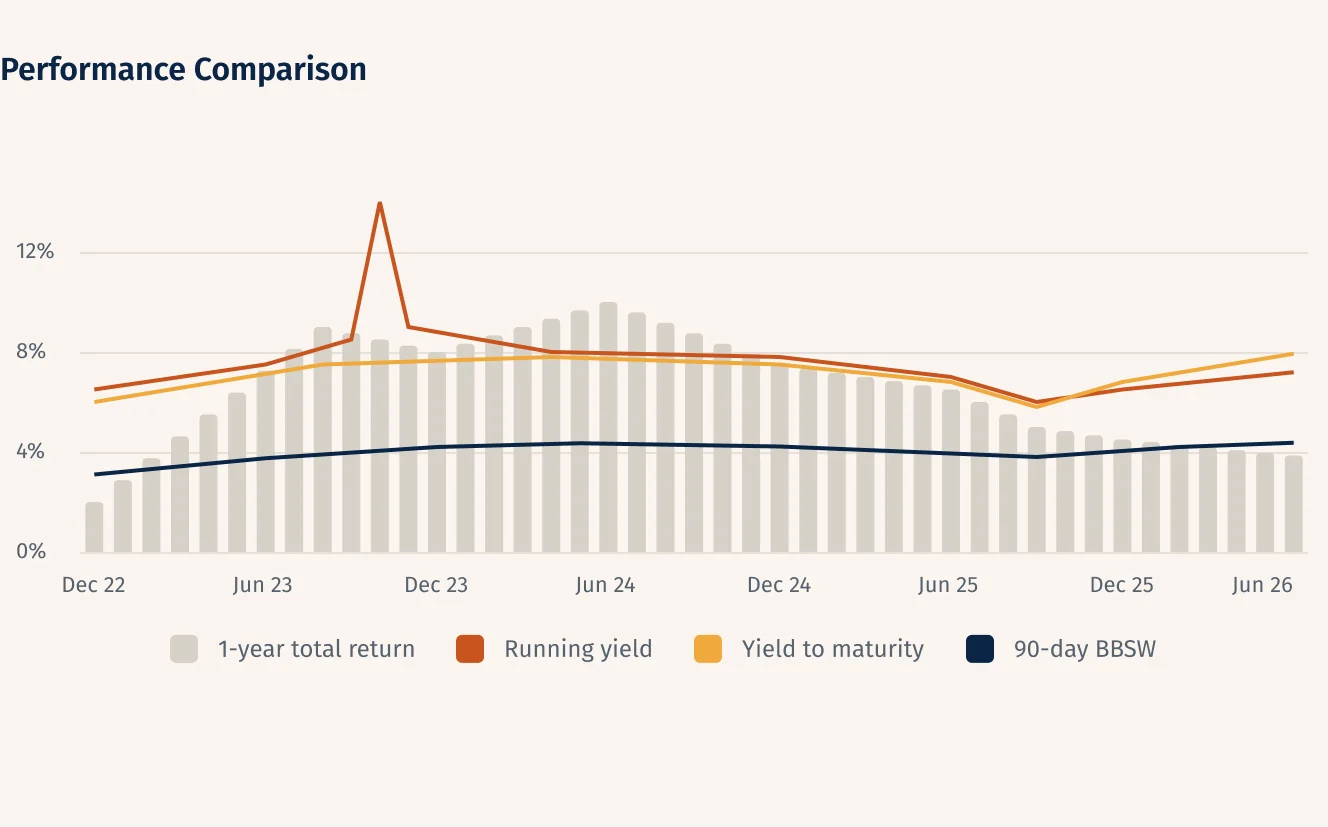
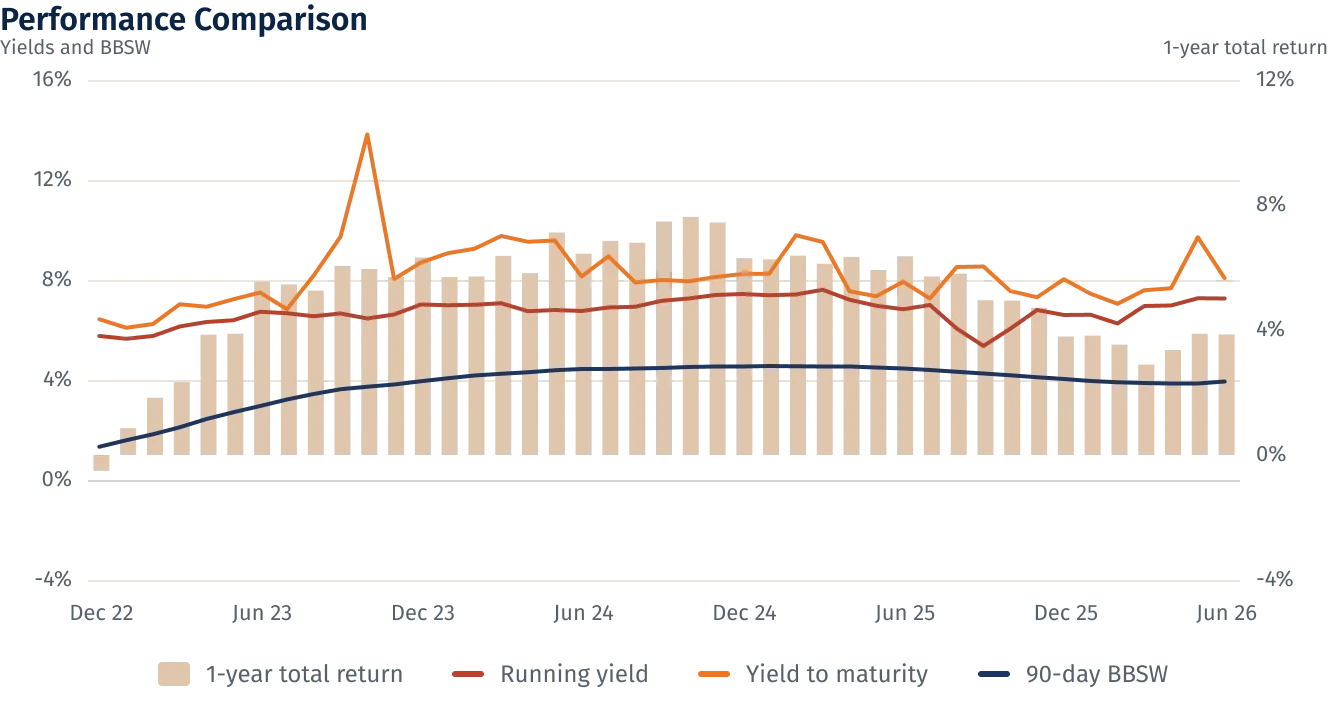
Add files via upload

diff --git a/scripts/figma-chart-build.js b/scripts/figma-chart-build.js
@@ -1,0 +1,42 @@
+// Figma use_figma script that built the Performance chart v2 frames (23 Sep 2026). Replace the D = {...} series (months, bars from workbook column AC, RY/YTM/BBSW) and the axis constants, run via the Figma MCP, export at 2x. Kept here as the regeneration recipe for docs/MONTHLY.md Step 2.
+const D = {"months":["Dec 2022","Jan 2023","Feb 2023","Mar 2023","Apr 2023","May 2023","Jun 2023","Jul 2023","Aug 2023","Sep 2023","Oct 2023","Nov 2023","Dec 2023","Jan 2024","Feb 2024","Mar 2024","Apr 2024","May 2024","Jun 2024","Jul 2024","Aug 2024","Sep 2024","Oct 2024","Nov 2024","Dec 2024","Jan 2025","Feb 2025","Mar 2025","Apr 2025","May 2025","Jun 2025","Jul 2025","Aug 2025","Sep 2025","Oct 2025","Nov 2025","Dec 2025","Jan 2026","Feb 2026","Mar 2026","Apr 2026","May 2026","Jun 2026"],"bars":[-0.51,0.86,1.83,2.33,3.85,3.88,5.55,5.46,5.26,6.05,5.95,5.69,6.32,5.69,5.71,6.37,5.82,7.12,6.44,6.85,6.79,7.47,7.62,7.44,6.3,6.26,6.38,6.12,6.34,5.92,6.36,5.71,5.8,4.95,4.94,4.71,3.79,3.82,3.53,2.89,3.36,3.88,3.86],"RY":[5.68,5.57,5.68,6.06,6.24,6.31,6.65,6.59,6.47,6.58,6.38,6.54,6.94,6.91,6.93,6.99,6.67,6.72,6.68,6.82,6.85,7.09,7.18,7.32,7.36,7.31,7.34,7.53,7.13,6.89,6.75,6.92,5.98,5.28,5.97,6.72,6.52,6.53,6.18,6.88,6.9,7.19,7.18],"YTM":[6.35,6.01,6.16,6.95,6.85,7.15,7.42,6.75,8.1,9.65,13.74,7.96,8.62,8.99,9.17,9.68,9.45,9.5,8.06,8.87,7.82,7.92,7.87,8.04,8.16,8.17,9.71,9.44,7.47,7.27,7.85,7.18,8.44,8.46,7.48,7.23,7.95,7.37,6.97,7.51,7.59,9.63,7.99],"BBSW":[1.25,1.51,1.75,2.03,2.36,2.63,2.88,3.14,3.36,3.55,3.65,3.74,3.87,3.99,4.1,4.17,4.23,4.31,4.36,4.36,4.38,4.4,4.44,4.46,4.46,4.48,4.47,4.46,4.46,4.42,4.38,4.32,4.25,4.18,4.11,4.03,3.96,3.88,3.83,3.8,3.78,3.78,3.86]};
+await figma.setCurrentPageAsync(await figma.getNodeByIdAsync('74:3'));
+const SB = {family:'Fira Sans',style:'SemiBold'}, RG = {family:'Fira Sans',style:'Regular'}, MD={family:'Fira Sans',style:'Medium'};
+await figma.loadFontAsync(SB); await figma.loadFontAsync(RG); await figma.loadFontAsync(MD);
+const hex = h => ({r:parseInt(h.slice(1,3),16)/255,g:parseInt(h.slice(3,5),16)/255,b:parseInt(h.slice(5,7),16)/255});
+const C = {navyMid:'#0B2545', body:'#57626D', line:'#EBE5DE', bar:'#DFC6AD', ry:'#B6432F', ytm:'#EC7826', bbsw:'#1E355E', axis:'#D2D5D9'};
+const solid = h => [{type:'SOLID',color:hex(h)}];
+// placement: right of everything on the page
+let maxX = -Infinity, pifY = 0; for (const c of figma.currentPage.children){ maxX=Math.max(maxX,c.x+c.width); if (c.name.includes('Preferred') || c.name.includes('PIF')) pifY = c.y; }
+const W=664, H=440;
+const root = figma.createFrame(); root.name='Performance chart v2 · PIF (Jun 2026)'; root.resize(W,H); root.fills=[]; root.x=Math.round(maxX+200); root.y=Math.round(pifY||0); figma.currentPage.appendChild(root);
+const txt = (chars, font, size, color, x, y, w, align) => { const t=figma.createText(); t.fontName=font; t.characters=chars; t.fontSize=size; t.fills=solid(color); t.textAutoResize='WIDTH_AND_HEIGHT'; root.appendChild(t); if (w!==undefined){ t.textAutoResize='HEIGHT'; t.resize(w, t.height); t.textAlignHorizontal=align||'LEFT'; } t.x=x; t.y=y; return t; };
+txt('Performance Comparison', SB, 16, C.navyMid, 0, 0);
+// plot geometry
+const L=44, R=44, top=40, plotH=250, plotW=W-L-R, bottom=top+plotH;
+const yL = v => top + (16 - v)/20*plotH;   // left axis: yields, 16 .. -4
+const yR = v => top + (12 - v)/16*plotH;   // right axis: 1-year return, 12 .. -4
+// gridlines + left labels every 4%, right labels at their own values
+const gridG = figma.createFrame(); gridG.name='Grid'; gridG.fills=[]; gridG.resize(W,H); gridG.x=0; gridG.y=0; root.appendChild(gridG); gridG.clipsContent=false;
+for (const v of [16,12,8,4,0,-4]) { const l=figma.createRectangle(); l.resize(plotW,1); l.x=L; l.y=Math.round(yL(v)); l.fills=solid(v===0?C.axis:C.line); gridG.appendChild(l); const t=txt(`${v}%`,RG,11,C.body,0,yL(v)-7,L-8,'RIGHT'); }
+for (const v of [12,8,4,0,-4]) { txt(`${v}%`,RG,11,C.body,W-R+8,yR(v)-7,R-8,'LEFT'); }
+// bars
+const n=D.months.length, slot=plotW/n, bw=Math.max(6,Math.floor(slot*0.6));
+const barsG = figma.createFrame(); barsG.name='Bars · 1-year total return'; barsG.fills=[]; barsG.resize(W,H); barsG.x=0; barsG.y=0; barsG.clipsContent=false; root.appendChild(barsG);
+D.bars.forEach((v,i)=>{ const r=figma.createRectangle(); const y0=yR(0), y1=yR(v); r.resize(bw, Math.max(1,Math.abs(y1-y0))); r.x=L+i*slot+(slot-bw)/2; r.y=Math.min(y0,y1); r.fills=solid(C.bar); r.name=`${D.months[i]} ${v}%`; barsG.appendChild(r); });
+// lines
+const cx = i => L + i*slot + slot/2;
+const line = (name, vals, color) => { const v=figma.createVector(); v.name=name; root.appendChild(v); let d=''; vals.forEach((val,i)=>{ if(val===null) return; d += (d?' L ':'M ') + cx(i).toFixed(2)+' '+yL(val).toFixed(2); }); v.vectorPaths=[{windingRule:'NONE',data:d}]; v.strokes=solid(color); v.strokeWeight=2; v.strokeCap='ROUND'; v.strokeJoin='ROUND'; v.fills=[]; v.x=0; v.y=0; return v.id; };
+const ids=[line('Running yield',D.RY,C.ry), line('Yield to maturity',D.YTM,C.ytm), line('90-day BBSW',D.BBSW,C.bbsw)];
+// x labels every 6 months
+D.months.forEach((m,i)=>{ if(i%6===0){ const [mon,yr]=m.split(' '); txt(`${mon} ${yr.slice(2)}`,RG,11,C.body,cx(i)-24,bottom+10,48,'CENTER'); } });
+// axis captions
+txt('Yields and BBSW',RG,10,C.body,0,top-22); txt('1-year total return',RG,10,C.body,W-90,top-22,90,'RIGHT');
+// legend
+const leg = figma.createAutoLayout('HORIZONTAL',{name:'Legend',itemSpacing:24}); leg.fills=[]; root.appendChild(leg);
+const item=(label,color,isBar)=>{ const it=figma.createAutoLayout('HORIZONTAL',{itemSpacing:8}); it.fills=[]; it.counterAxisAlignItems='CENTER'; const sw=figma.createRectangle(); sw.resize(isBar?16:16, isBar?12:3); sw.fills=solid(color); sw.cornerRadius=isBar?2:1.5; it.appendChild(sw); const t=figma.createText(); t.fontName=RG; t.characters=label; t.fontSize=12; t.fills=solid(C.body); it.appendChild(t); leg.appendChild(it); };
+item('1-year total return',C.bar,true); item('Running yield',C.ry); item('Yield to maturity',C.ytm); item('90-day BBSW',C.bbsw);
+leg.x=Math.round((W-leg.width)/2); leg.y=bottom+40;
+const note=txt('Source: Arculus. Bars from the fund performance workbook (1-year total return, right axis). Yield lines traced from the June 2026 report chart pending Renny\'s series (left axis).',RG,9,C.body,0,bottom+72,W);
+note.name='_note (delete before export)';
+return {rootId:root.id, x:root.x, y:root.y, lineIds:ids, bars:D.bars.length, screenshot: await root.screenshot({scale:1})};

diff --git a/BUILD_TASKS.md b/BUILD_TASKS.md
@@ -76,7 +76,7 @@ T7 is the checkpoint: if the build is running well past estimate by then, revisi
 ## 6b · Pre-launch build tasks from Jim's 22 Sep list
 
 - [x] T29 Fund performance card is now the report's three-row table (Total return · Cash distribution · Growth × seven periods; `performance.table` in the fund JSON, `PerformanceTable` component, report footnote as `tableNote` [Unverified] wording); card padding evened out; AFI note gains its distribution sentence; "latest monthly" labels realigned to the 30 June data (documents.json June/May/April placeholders until C9) — 22 Sep
-- [ ] T30 Performance chart fidelity: replace the simplified Figma redraw with a code-drawn SVG from a per-fund monthly series file (bars = 1-year total return from the workbook column AC, lines = running yield, yield to maturity, 90-day BBSW) so the chart carries the monthly x-axis, dual axes and every month, and the monthly update becomes "append a row". **Needs from Renny: the sheet behind his Performance Comparison chart (monthly RY, YTM and BBSW series) — those three are not in the performance workbooks.**
+- [~] T30 Performance charts rebuilt in Figma at Renny's fidelity (23 Sep; `Performance chart v2` frames, bars exact from the workbooks, yield lines [Unverified] traced from the June report charts until Renny's series arrives) and exported to the site. Original plan, still the long-term option: replace the Figma redraw with a code-drawn SVG from a per-fund monthly series file (bars = 1-year total return from the workbook column AC, lines = running yield, yield to maturity, 90-day BBSW) so the chart carries the monthly x-axis, dual axes and every month, and the monthly update becomes "append a row". **Needs from Renny: the sheet behind his Performance Comparison chart (monthly RY, YTM and BBSW series) — those three are not in the performance workbooks.**
 
 - [ ] T26 Insight page template `src/pages/insights/[slug].astro` — one page per article with the PDF embedded in a viewer (V1); `InsightsList`/`ArticleCard` link to the page instead of the PDF; long-term plan is an in-page version of each report plus a full-report PDF download template (parked until V1 ships)
 - [ ] T27 Team headshot fallback: navy initials monogram (SVG, generated from the name) in `ProfileModule` when `photo` is a placeholder — agreed 22 Sep instead of grey silhouettes; real headshots still preferred (C5)

diff --git a/docs/MONTHLY.md b/docs/MONTHLY.md
@@ -50,12 +50,9 @@ The portfolio characteristics (running yield, yield to maturity, average margin,
 
 ## Step 2 — Export the two charts from Figma
 
-1. Open the AFM Site IA & Wireframes file, page **04 · V1 Layouts**.
-2. Update the chart data in the two `Performance chart` frames (AFI `88:836`, PIF `97:1119`) — the designer does this part. The frame must keep its title text ("Performance Comparison") and legend; both are part of the image.
-3. Select the AFI chart frame → Export panel (bottom right) → set **2x**, **PNG** → Export.
-4. Convert to WebP and rename: `afi-2026-08.webp` for the August 2026 report (year-month of the report, not of the day you export). Any image tool that saves WebP works; quality 85. Squoosh (squoosh.app) is free and runs in the browser.
-5. Repeat for PIF → `pif-2026-08.webp`.
-6. Put both files in `public/charts/`. Leave the previous months' files there.
+The charts are the `Performance chart v2` frames on page **04 · V1 Layouts** (AFI `349:9521`, PIF `346:9503`, to the right of all page frames). Each is 664 wide and built from data: 43 monthly bars (1-year total return, right axis, from the workbook column AC) and three yield lines (running yield, yield to maturity, 90-day BBSW, left axis). To roll a month forward: drop the oldest month, add the new one (bar from the workbook; the three line values from Renny's series, see below), re-space, and shift the six-monthly x labels if needed. Then export the frame at 2× PNG with the `_note` layer hidden, trim everything below the legend (360px @1x = 720px @2x), convert to WebP (quality 90) and save as `public/charts/<fund>-<yyyy-mm>.webp`; update `chartImage` in the fund JSON.
+
+The line values for Jun 2026 were [Unverified] traced from the June report charts; when Renny supplies the monthly series behind his chart, rebuild the three vectors from the numbers (the `_note` layer on each frame records this). `scripts/figma-chart-build.js` is the use_figma script that built the frames: replace its `D` series and axis constants and run it through the Figma MCP to regenerate a chart from data rather than editing by hand.
 
 ## Step 3 — Edit the fund files
 

diff --git a/CLAUDE.md b/CLAUDE.md
@@ -111,7 +111,7 @@ All in `content/`, loaded as Astro content collections by `src/content.config.ts
 - `legal/terms.md`, `legal/privacy.md`, `legal/cookies.md`, `legal/disclosure.md` (disclosure copy pending).
 - `pages/home.json`, `pages/contact.json`, `pages/404.json`.
 
-Monthly update: the two performance charts are Figma exports (`Performance chart` nodes `88:836` AFI, `97:1119` PIF, at 2×, WebP), never generated in code; the portfolio allocation donut is inline SVG from the three allocation rows. The edit is: change fund JSON, add PDF and a `documents.json` line, drop in the chart export, commit. Document this in `docs/MONTHLY.md` (task L3).
+Monthly update: the two performance charts are Figma exports (`Performance chart v2` nodes `349:9521` AFI, `346:9503` PIF — rebuilt 23 Sep 2026 at Renny's fidelity: dual axes, all 43 monthly bars; export at 2×, trim below the legend to 664×360 @1x, WebP), never generated in code; the portfolio allocation donut is inline SVG from the three allocation rows. The edit is: change fund JSON, add PDF and a `documents.json` line, drop in the chart export, commit. Document this in `docs/MONTHLY.md` (task L3).
 
 ## 5. Rules
 
